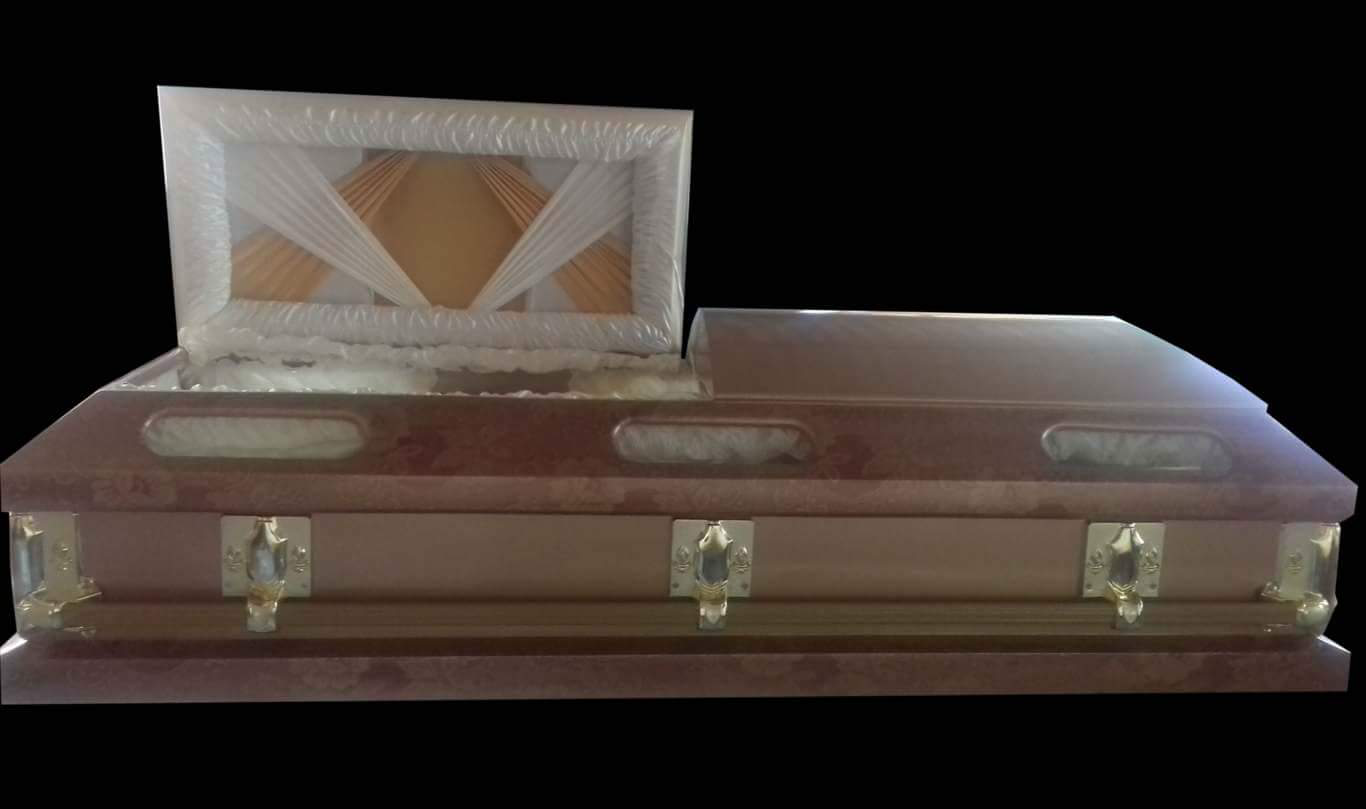
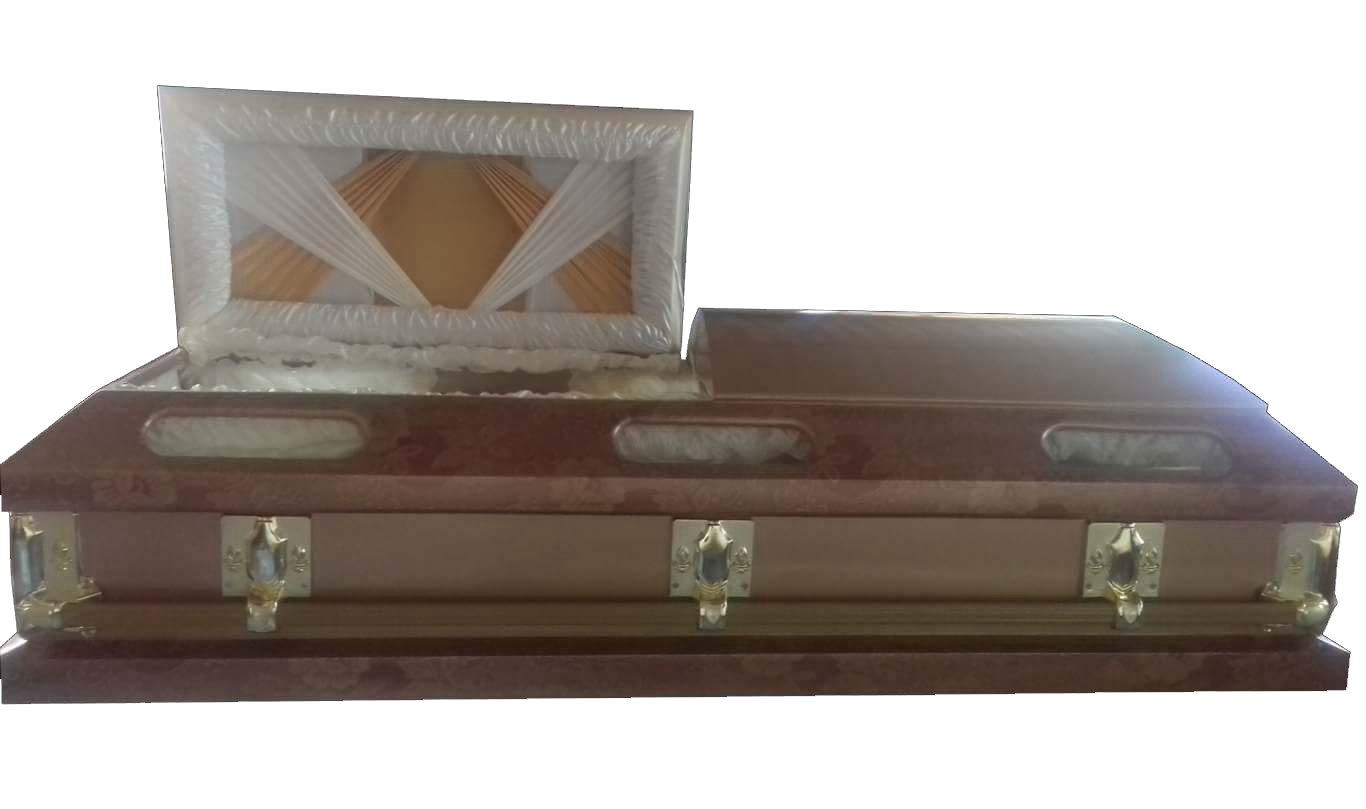
fixed dropdown menu and cropped photos

diff --git a/public/views/basicpackages.php b/public/views/basicpackages.php
@@ -152,3 +152,5 @@
 
 </div>
 </div>
+
+<?php require_once('footer.php'); ?>

diff --git a/public/views/gardenpackages.php b/public/views/gardenpackages.php
@@ -152,3 +152,5 @@
 
 </div>
 </div>
+
+<?php require_once('footer.php'); ?>

diff --git a/public/views/paradisepackages.php b/public/views/paradisepackages.php
@@ -143,3 +143,5 @@
 
 </div>
 </div>
+
+<?php require_once('footer.php'); ?>
